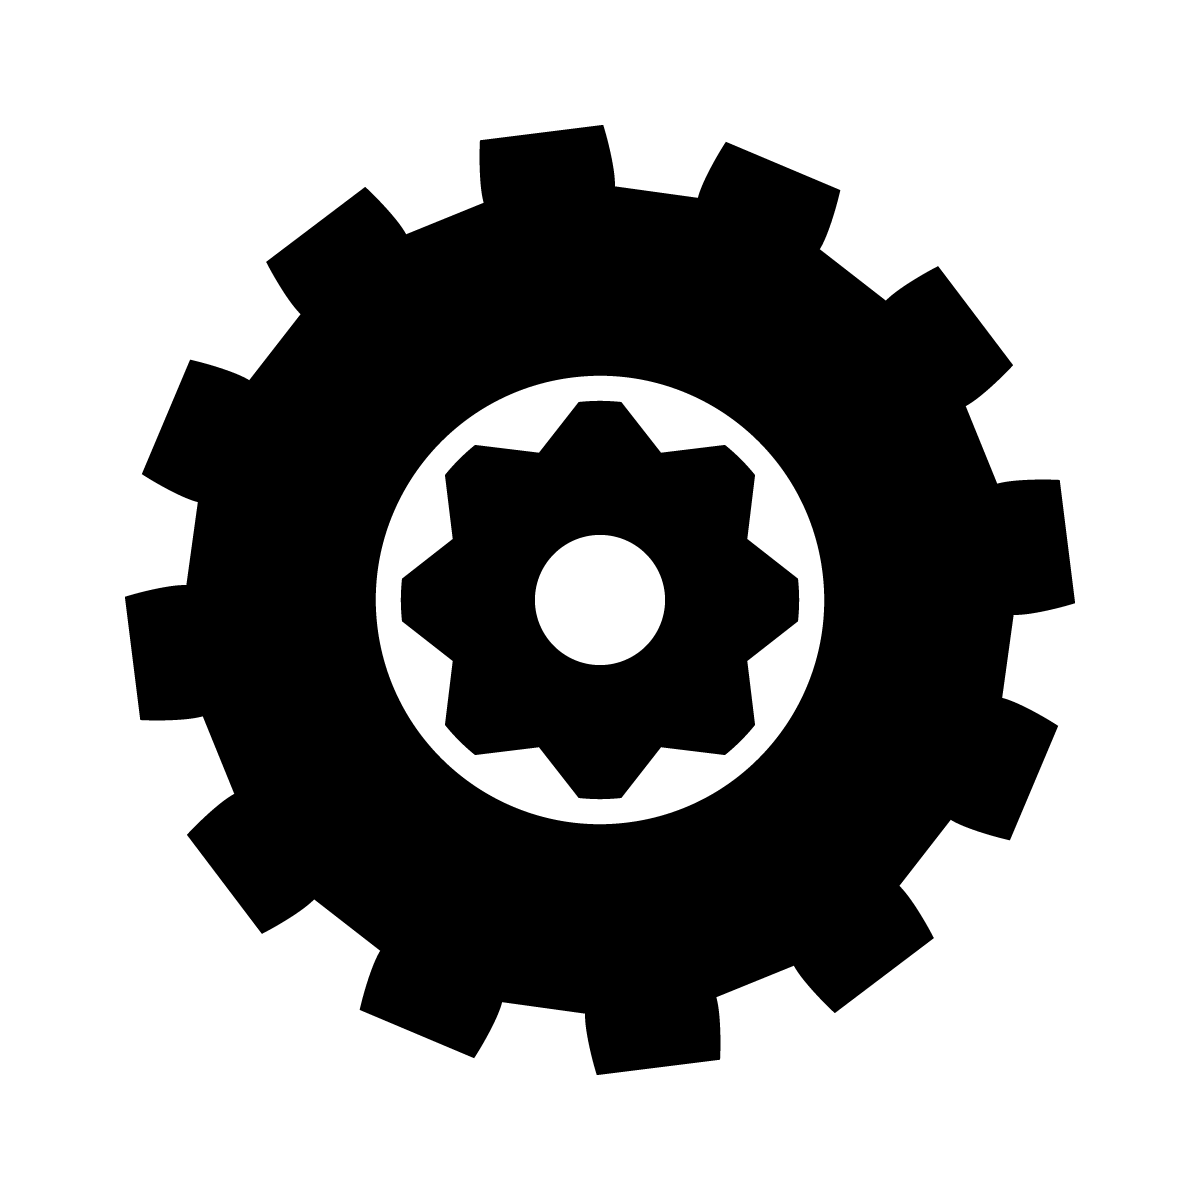
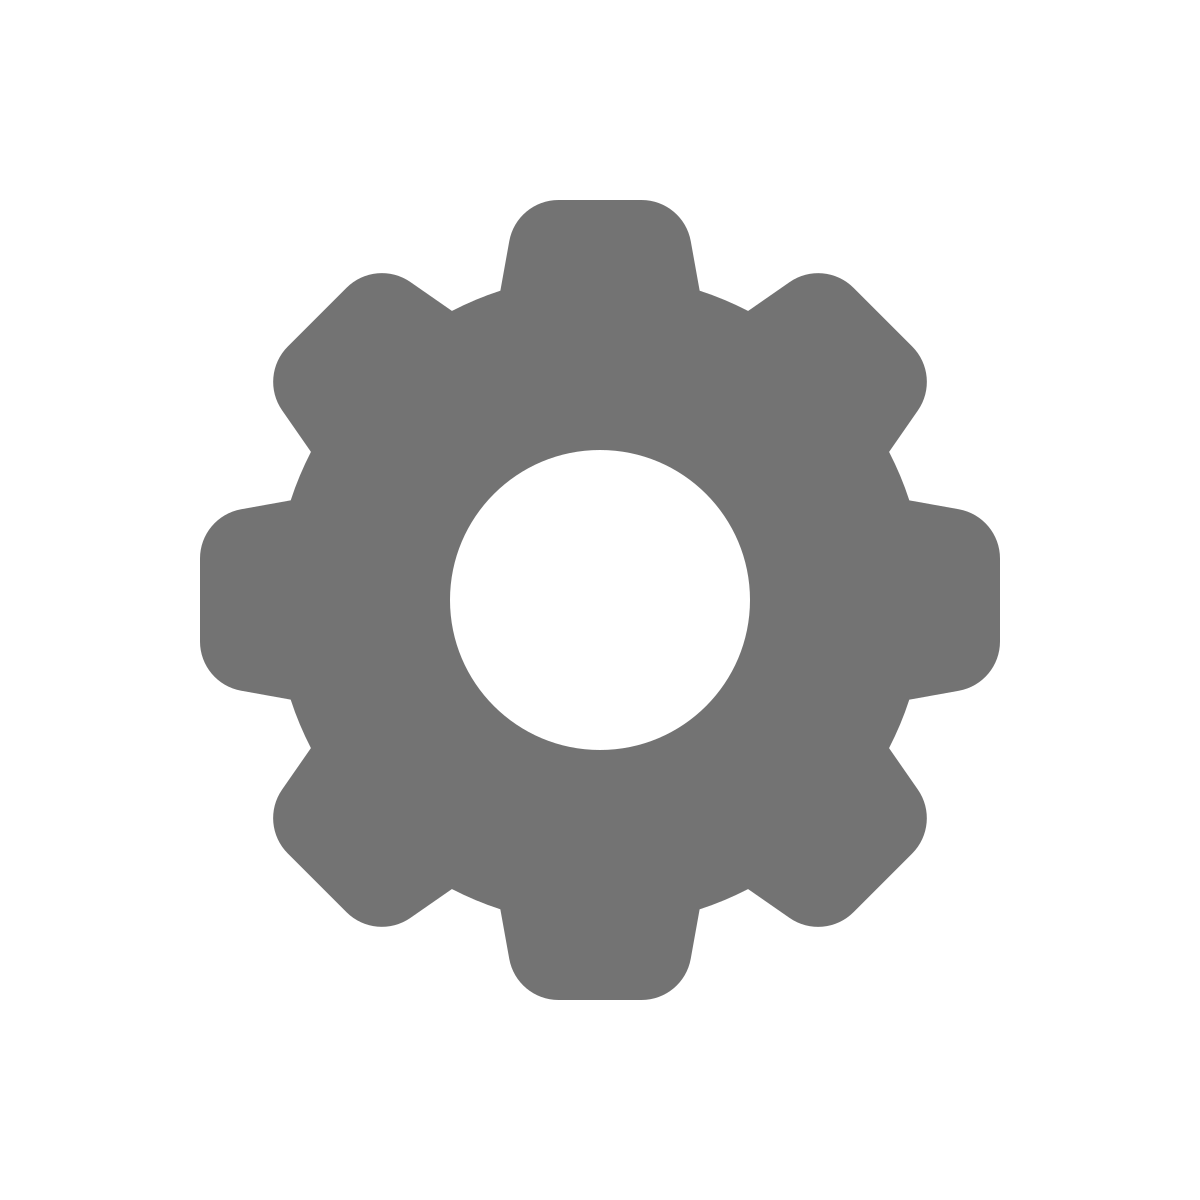
Header 1.1
Alterei o botão de opções, deixei funcional e adicionei o dark mode

diff --git a/css/style.css b/css/style.css
@@ -13,6 +13,11 @@
 body {
     font-family: SourceCode-regular;
     background-color: #FFF;
+    transition: .5s;
+}
+
+body.escuro {
+    background-color: #353535;
 }
 
 header {
@@ -22,7 +27,7 @@ header {
     display: flex;
     flex-direction: row;
     justify-content: space-between;
-    border-bottom: 3px solid #5D9ADC;
+    border-bottom: 0.3vh solid #5D9ADC;
     line-height: 7.5vh;
 }
 
@@ -40,6 +45,12 @@ header {
     position: relative;
     width: 40vw;
     height: 7.5vh;
+    font-size: 2vh;
+    color: #000;
+}
+
+.name-tag.escuro {
+    color: #FFF;
 }
 
 .menu-desktop {
@@ -64,7 +75,6 @@ header {
     position: relative;
     margin: auto;
     text-decoration: none;
-    color: #000;
 }
 
 .links a:after {
@@ -72,8 +82,8 @@ header {
     position: absolute;
     width: 100%;
     transform: scaleX(0);
-    height: 2px;
-    bottom: 20px;
+    height: 0.2vh;
+    bottom: 2vh;
     left: 0;
     background-color: #5D9ADC;
     transform-origin: center;
@@ -84,6 +94,14 @@ header {
     transform: scaleX(1);
 }
 
+.a1, .a2, .a3, .a4 {
+    color: #000;
+}
+
+.a1.escuro, .a2.escuro, .a3.escuro, .a4.escuro{
+    color: #FFF;
+}
+
 .configuracoes {
     position: relative;
     width: 5vw;
@@ -92,8 +110,101 @@ header {
 }
 
 .configuracoes img {
-    width: 48px;
-    height: 48px;
+    width: 3.25vw;
+    height: 6vh;
     margin: auto;
-    opacity: 50%;
+    cursor: pointer;
+}
+
+.modal-configuracoes {
+    position: absolute;
+    width: 14vw;
+    height: 12vh;
+    background-color: #FFF;
+    border: 0.1vh solid #000;
+    top: 7.8vh;
+    left: 28.5vw;
+    display: none;
+    flex-direction: column;
+    justify-content: center;
+}
+
+.modal-configuracoes.aberto {
+    display: flex;
+}
+
+.idioma {
+    position: relative;
+    width: 14vw;
+    height: 6vh;
+    background-color: #FFF;
+    border-bottom: 0.1vh solid #000;
+    display: flex;
+    flex-direction: row;
+    justify-content: center;
+    align-items: center;
+    font-size: 2.5vh;
+}
+
+.tema {
+    position: relative;
+    width: 14vw;
+    height: 6vh;
+    background-color: #FFF;
+    border-bottom: 0.1vh solid #000;
+    display: flex;
+    flex-direction: column;
+    align-items: center;
+}
+
+.btn {
+    position: absolute;
+    width: 3vw;
+    height: 2vh;
+    background-color: #FFF;
+    border: 0.3vh solid #000;
+    border-radius: 3vh;
+    cursor: pointer;
+    top: 0.6vh;
+    transition: .5s;
+}
+
+.btn.escuro {
+    background-color: #000;
+}
+
+.btn:before {
+    content: '';
+    position: absolute;
+    width: 1vw;
+    height: 1.9vh;
+    background-color: #000;
+    border-radius: 0.5vw;
+    top: 0.98vh;
+    left: 0.1vw;
+    transform: translateY(-50%);
+    transition: left .5s;
+}
+
+.btn.escuro:before {
+    background-color: #FFF;
+    left: 2vw;
+}
+
+.light {
+    margin-top: 0.8vh;
+    display: flex;
+}
+
+.light.escuro {
+    display: none;
+}
+
+.dark {
+    margin-top: 0.8vh;
+    display: none;
+}
+
+.dark.escuro {
+    display: flex;
 }

diff --git a/index.html b/index.html
@@ -23,14 +23,37 @@
 
         <div class="menu-desktop">
                 <div class="links">
-                    <a href="#">Sobre mim</a>
-                    <a href="#">Habilidades</a>
-                    <a href="#">Projetos</a>
-                    <a href="#">Contatos</a>
+                    <a class="a1" href="#">Sobre mim</a>
+                    <a class="a2" href="#">Habilidades</a>
+                    <a class="a3" href="#">Projetos</a>
+                    <a class="a4" href="#">Contatos</a>
                 </div>
                 
                 <div class="configuracoes">
-                    <img src="imgs/configuracoes.png">
+                    <img id="configs" src="imgs/configuracoes.png">
+                </div>
+
+                <div class="modal-configuracoes">
+                    <div class="idioma">
+                        <div>
+                            <p>pt</p>
+                        </div>
+                        <div>
+                            <p>|</p>
+                        </div>
+                        <div>
+                            <p>en</p>
+                        </div>
+                    </div>
+
+                    <div class="tema">
+                            <div class="btn"></div>
+
+                            <div>
+                                <p class="light">Light Mode</p>
+                                <p class="dark">Dark Mode</p>
+                            </div>
+                    </div>
                 </div>
         </div>
     </header>

diff --git a/js/script.js b/js/script.js
@@ -1,0 +1,35 @@
+// Abrir configurações
+
+const configuracoes = document.querySelector('#configs');
+const modal = document.querySelector('.modal-configuracoes');
+
+configuracoes.onclick = function() {
+    this.classList.toggle('aberto');
+    modal.classList.toggle('aberto');
+}
+
+// Mudança de tema
+
+const btn = document.querySelector('.btn');
+const tema = document.querySelector('.tema');
+const body = document.querySelector('body');
+const nameTag = document.querySelector('.name-tag');
+const a1 = document.querySelector('.a1');
+const a2 = document.querySelector('.a2');
+const a3 = document.querySelector('.a3');
+const a4 = document.querySelector('.a4');
+const light = document.querySelector(".light");
+const dark = document.querySelector(".dark");
+
+btn.onclick = function() {
+    this.classList.toggle('escuro');
+    light.classList.toggle('escuro');
+    dark.classList.toggle('escuro');
+    tema.classList.toggle('escuro');
+    body.classList.toggle('escuro');
+    nameTag.classList.toggle('escuro');
+    a1.classList.toggle('escuro');
+    a2.classList.toggle('escuro');
+    a3.classList.toggle('escuro');
+    a4.classList.toggle('escuro');
+}
